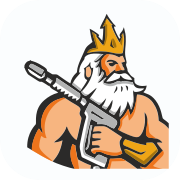
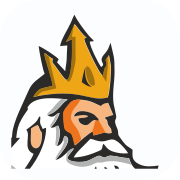
feat: ikona jen s hlavou maskota, velký nadpis Nanoimpregnace
Ikona: celá postava byla i po zkrácení hlavně v 16-32px nečitelná, protože
paže a pistole ukrojily většinu plochy. Výřez je teď jen koruna, obličej
a horní část vousů. Podcesty, které do výřezu nezasahují, se do souboru
nezapisují (u even-odd výplně to na body uvnitř výřezu nemá vliv), takže
favicon.svg spadl z 37 kB na 19 kB.

Sekce „Proč čistit" byla od fotky dolů jeden dlouhý blok. Nad kartu Ochrana
proti vodě přibyl velký nadpis Nanoimpregnace, který ji dělí na čištění
a ochranu; nadpis uvnitř karty je proto o úroveň níž. Text nadpisu se dá
změnit v administraci.

Claude-Session: https://claude.ai/code/session_0198MSgRvGV4Mj2qNCZMWKAM

diff --git a/src/components/WhyCleanDetail.tsx b/src/components/WhyCleanDetail.tsx
@@ -16,6 +16,7 @@ export default function WhyCleanDetail() {
   const {
     reasonsHeading,
     reasons,
+    protectionHeading,
     protectionTitle,
     protectionIntro,
     protectionBullets,
@@ -196,23 +197,34 @@ export default function WhyCleanDetail() {
           </div>
         )}
 
+        {/* Nanoimpregnace – velký nadpis dělí sekci na čištění a ochranu. */}
+        {protectionHeading && (
+          <h3
+            className="mt-16 text-botanical-ink fade-up"
+            style={{ fontSize: "clamp(22px, 2.2vw, 28px)", fontWeight: 700 }}
+          >
+            {protectionHeading}
+          </h3>
+        )}
+
         {/* Ochrana proti vodě - klidný pruh se dvěma sloupci: vlevo vysvětlení,
             vpravo přínosy jako odškrtnutý seznam. */}
         <MobileDisclosure label="Jak chráníme fasádu proti vodě">
         <div
-          className="mt-16 grid grid-cols-1 gap-8 rounded-[14px] border p-7 fade-up md:grid-cols-2 md:gap-12 md:p-10"
+          className="mt-8 grid grid-cols-1 gap-8 rounded-[14px] border p-7 fade-up md:grid-cols-2 md:gap-12 md:p-10"
           style={{
             borderColor: "var(--color-eucalyptus)",
             backgroundColor: "var(--color-sage-mist)",
           }}
         >
           <div>
-            <h3
+            {/* h4 – nadřazený nadpis pruhu je „Nanoimpregnace" nad kartou. */}
+            <h4
               className="text-botanical-ink"
               style={{ fontSize: "clamp(20px, 2vw, 24px)", fontWeight: 700 }}
             >
               {protectionTitle}
-            </h3>
+            </h4>
             <p className="mt-3 max-w-[52ch] text-botanical-ink/80" style={TEXT.body}>
               {protectionIntro}
             </p>

diff --git a/src/admin/labels.ts b/src/admin/labels.ts
@@ -154,6 +154,7 @@ LABELS.reasons = "Bloky — střecha a dlažba";
 LABELS.risksTitle = "Rizika — nadpis";
 LABELS.risksIntro = "Rizika — úvodní text (lze nechat prázdné)";
 LABELS.risks = "Rizika a problémy (popis lze nechat prázdný)";
+LABELS.protectionHeading = "Nanoimpregnace — velký nadpis nad kartou";
 LABELS.protectionTitle = "Ochrana proti vodě — nadpis";
 LABELS.protectionIntro = "Ochrana proti vodě — úvod";
 LABELS.protectionBullets = "Ochrana proti vodě — odrážky";

diff --git a/src/content/schema.ts b/src/content/schema.ts
@@ -87,6 +87,8 @@ export type Content = {
       risksIntro: string;
       risks: { title: string; desc: string }[];
     }[];
+    /** Velký nadpis nad pruhem o ochraně proti vodě — dělí sekci na dvě části. */
+    protectionHeading: string;
     protectionTitle: string;
     protectionIntro: string;
     protectionBullets: string[];
